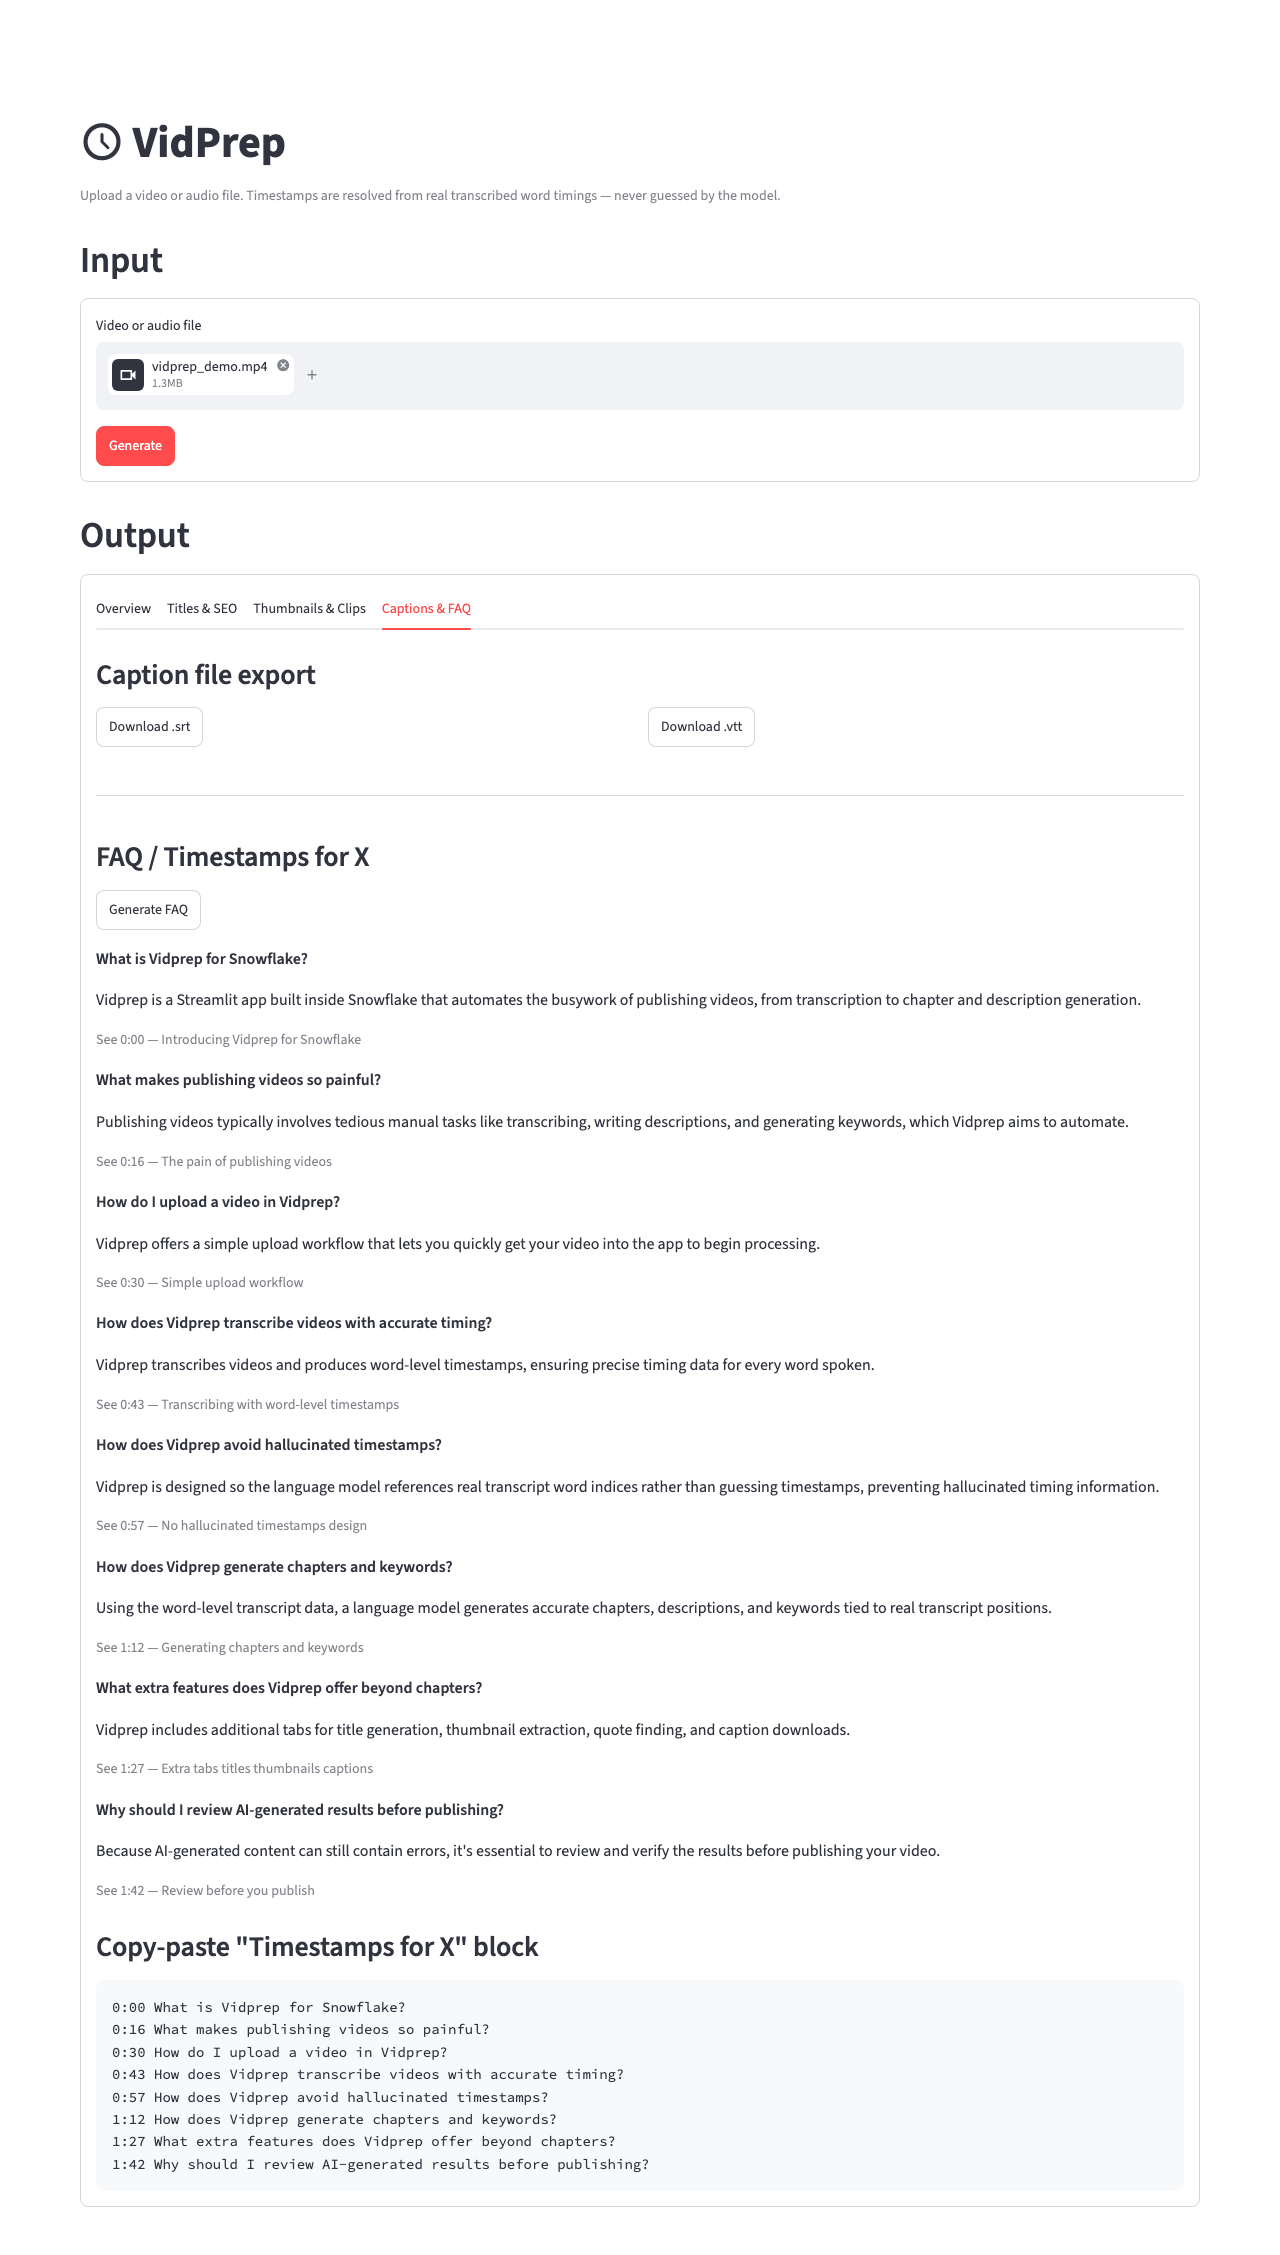
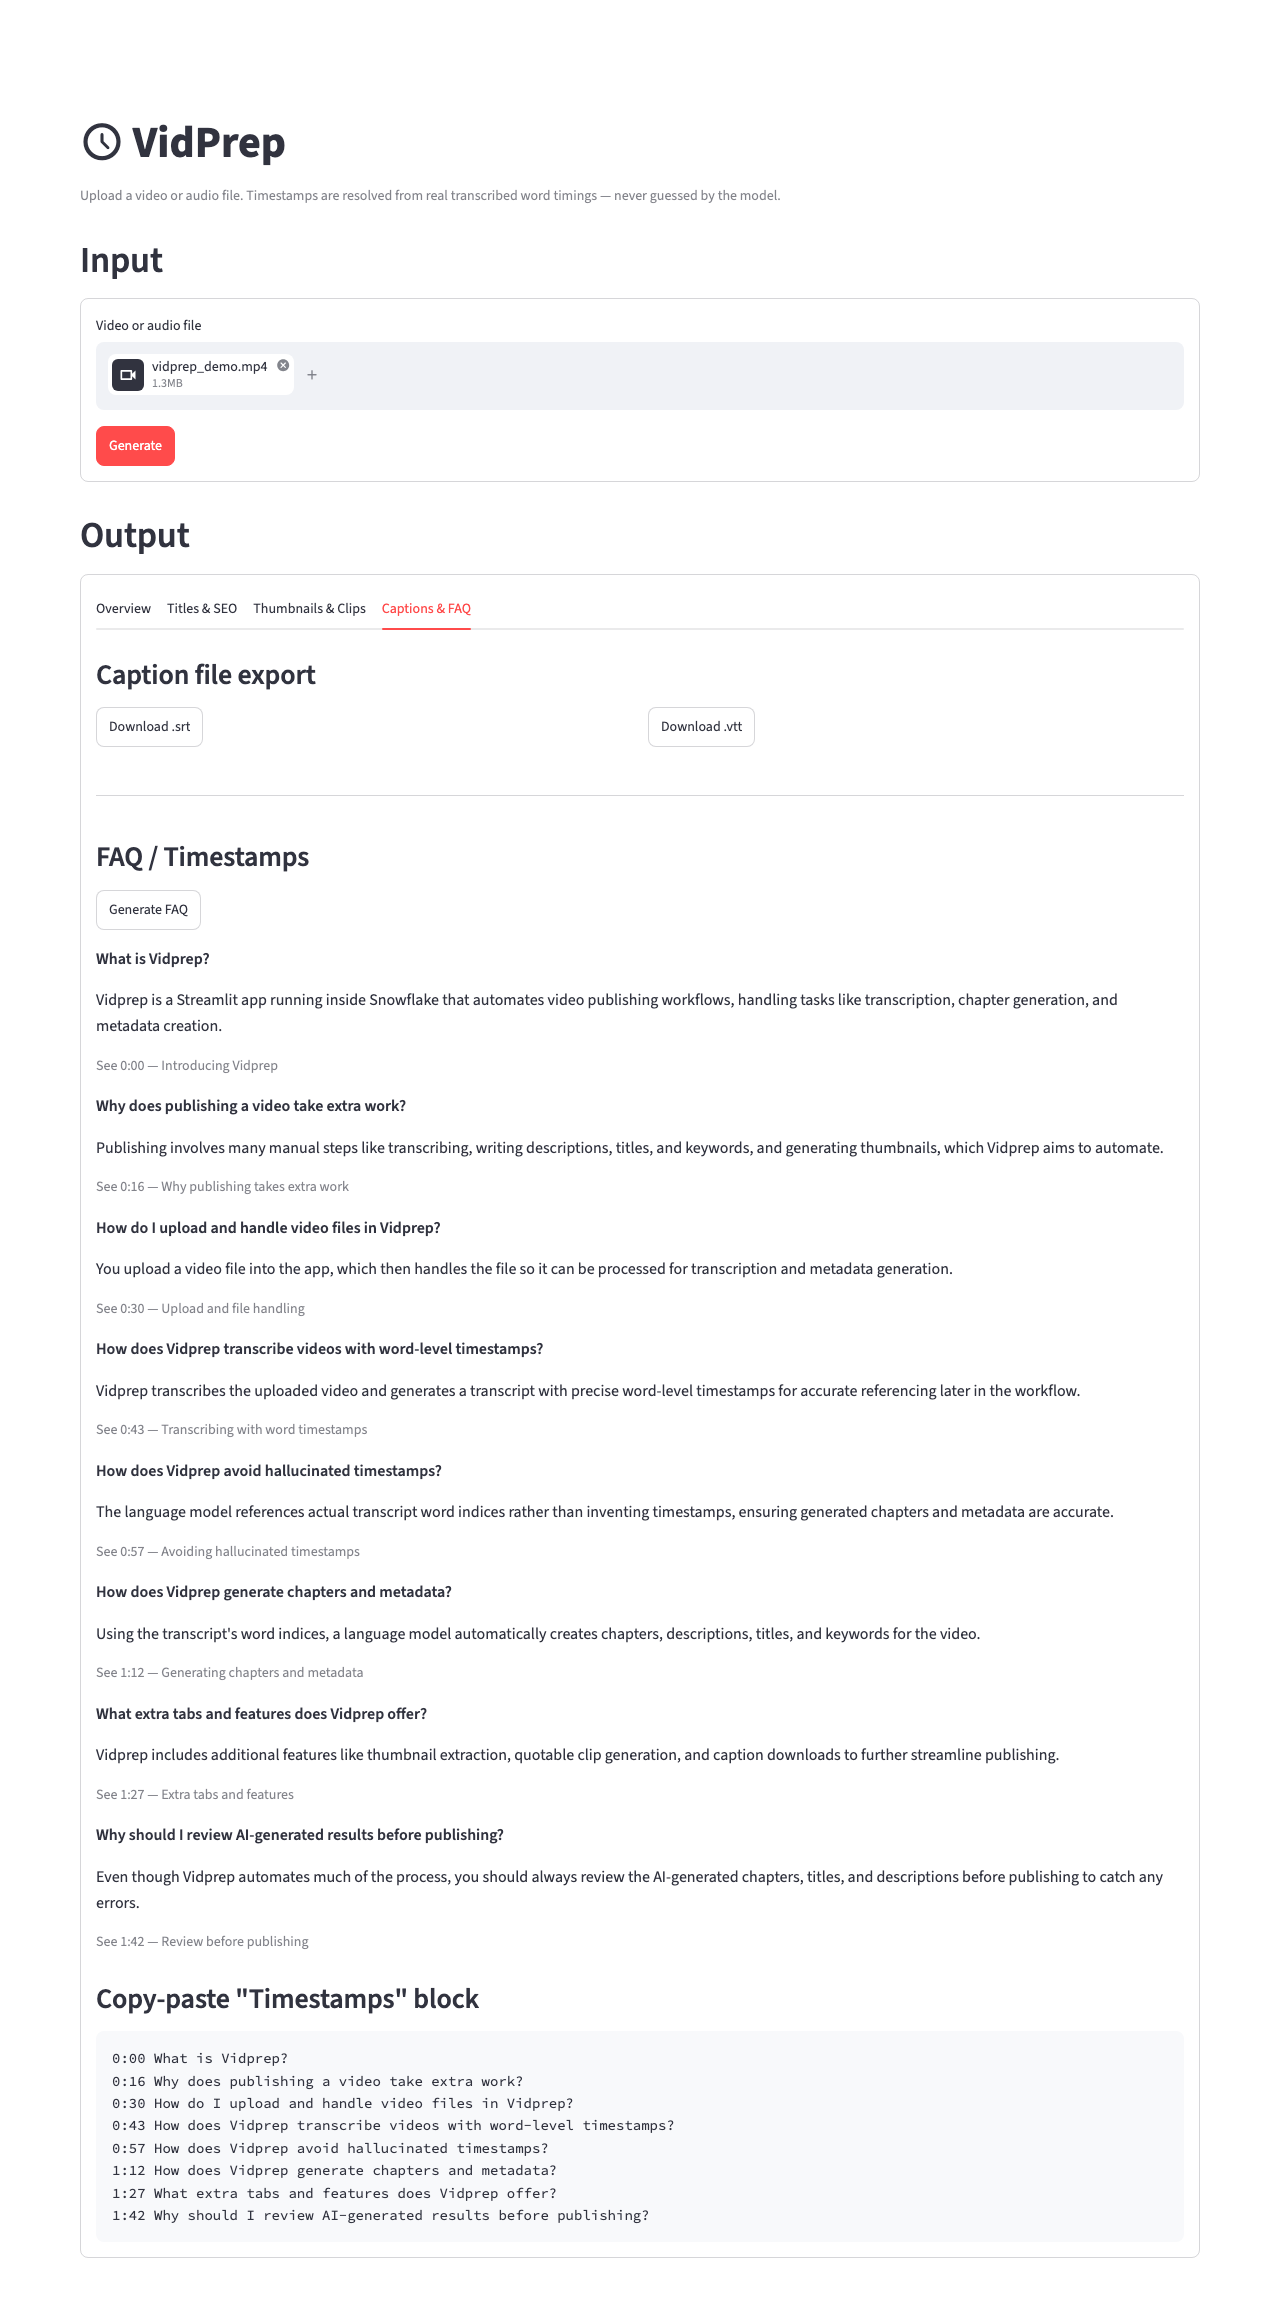
Note YouTube as a publishing target and rename Timestamps heading
Clarifies that output suits creators publishing to YouTube while the app only processes uploads the user has rights to, and refreshes screenshots from a new live run.

Generated with [Snowflake CoCo](https://docs.snowflake.com/en/user-guide/cortex-code/cortex-code)

diff --git a/ai-powered-video-publishing.md b/ai-powered-video-publishing.md
@@ -12,7 +12,7 @@ fork repo link: https://github.com/sfc-gh-cnantasenamat/ai-powered-video-publish
 # Build an AI-Powered Video Publishing App on Snowflake
 ## Overview
 
-Creators publishing a video usually have to write a description, mark chapter timestamps, pick SEO keywords, choose a thumbnail, and write captions. VidPrep prepares drafts of these outputs from an uploaded video or audio file using Snowflake Cortex. Review the transcript and generated copy before publishing; transcription and model output can contain errors.
+Creators publishing a video, for example to YouTube, usually have to write a description, mark chapter timestamps, pick SEO keywords, choose a thumbnail, and write captions. VidPrep prepares drafts of these outputs from a video or audio file you upload, using Snowflake Cortex. It does not download videos from YouTube or other sites; process only media you own or have rights to use. Review the transcript and generated copy before publishing; transcription and model output can contain errors.
 
 The core design principle behind VidPrep is that a large language model should never be trusted to emit a timestamp directly, because it can hallucinate one that doesn't correspond to anything said in the video. Instead, the model is only ever asked to point at a position in a real, transcribed word array, and the actual timestamp is looked up in code from that position. This guide walks through that architecture and how to build and deploy the whole app on Snowflake.
 
